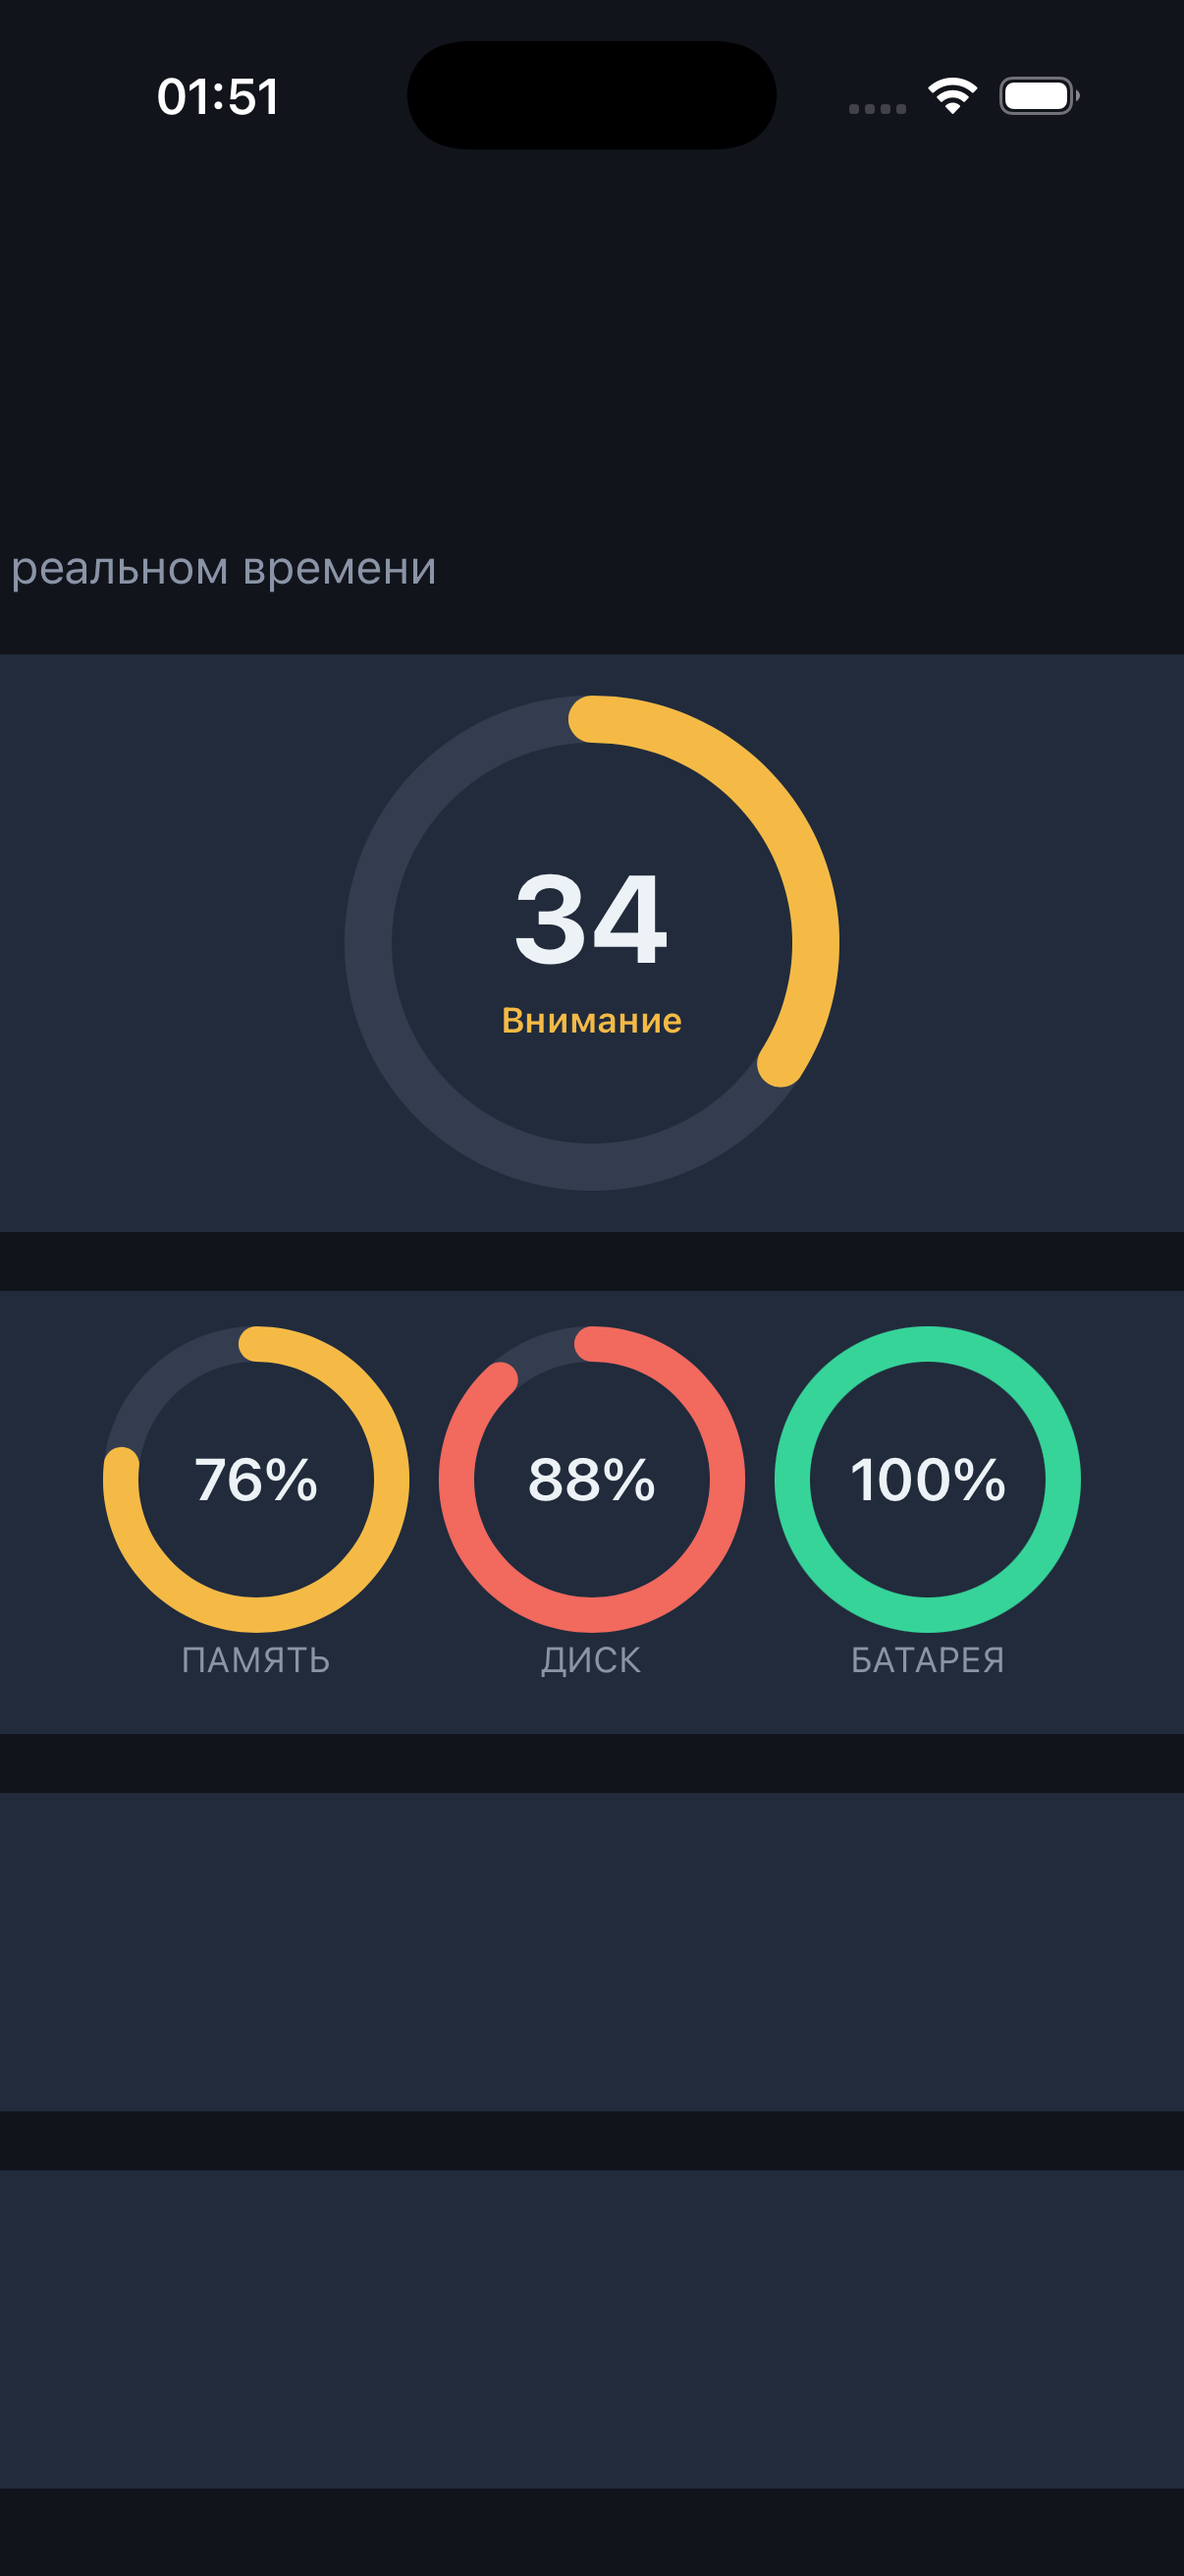
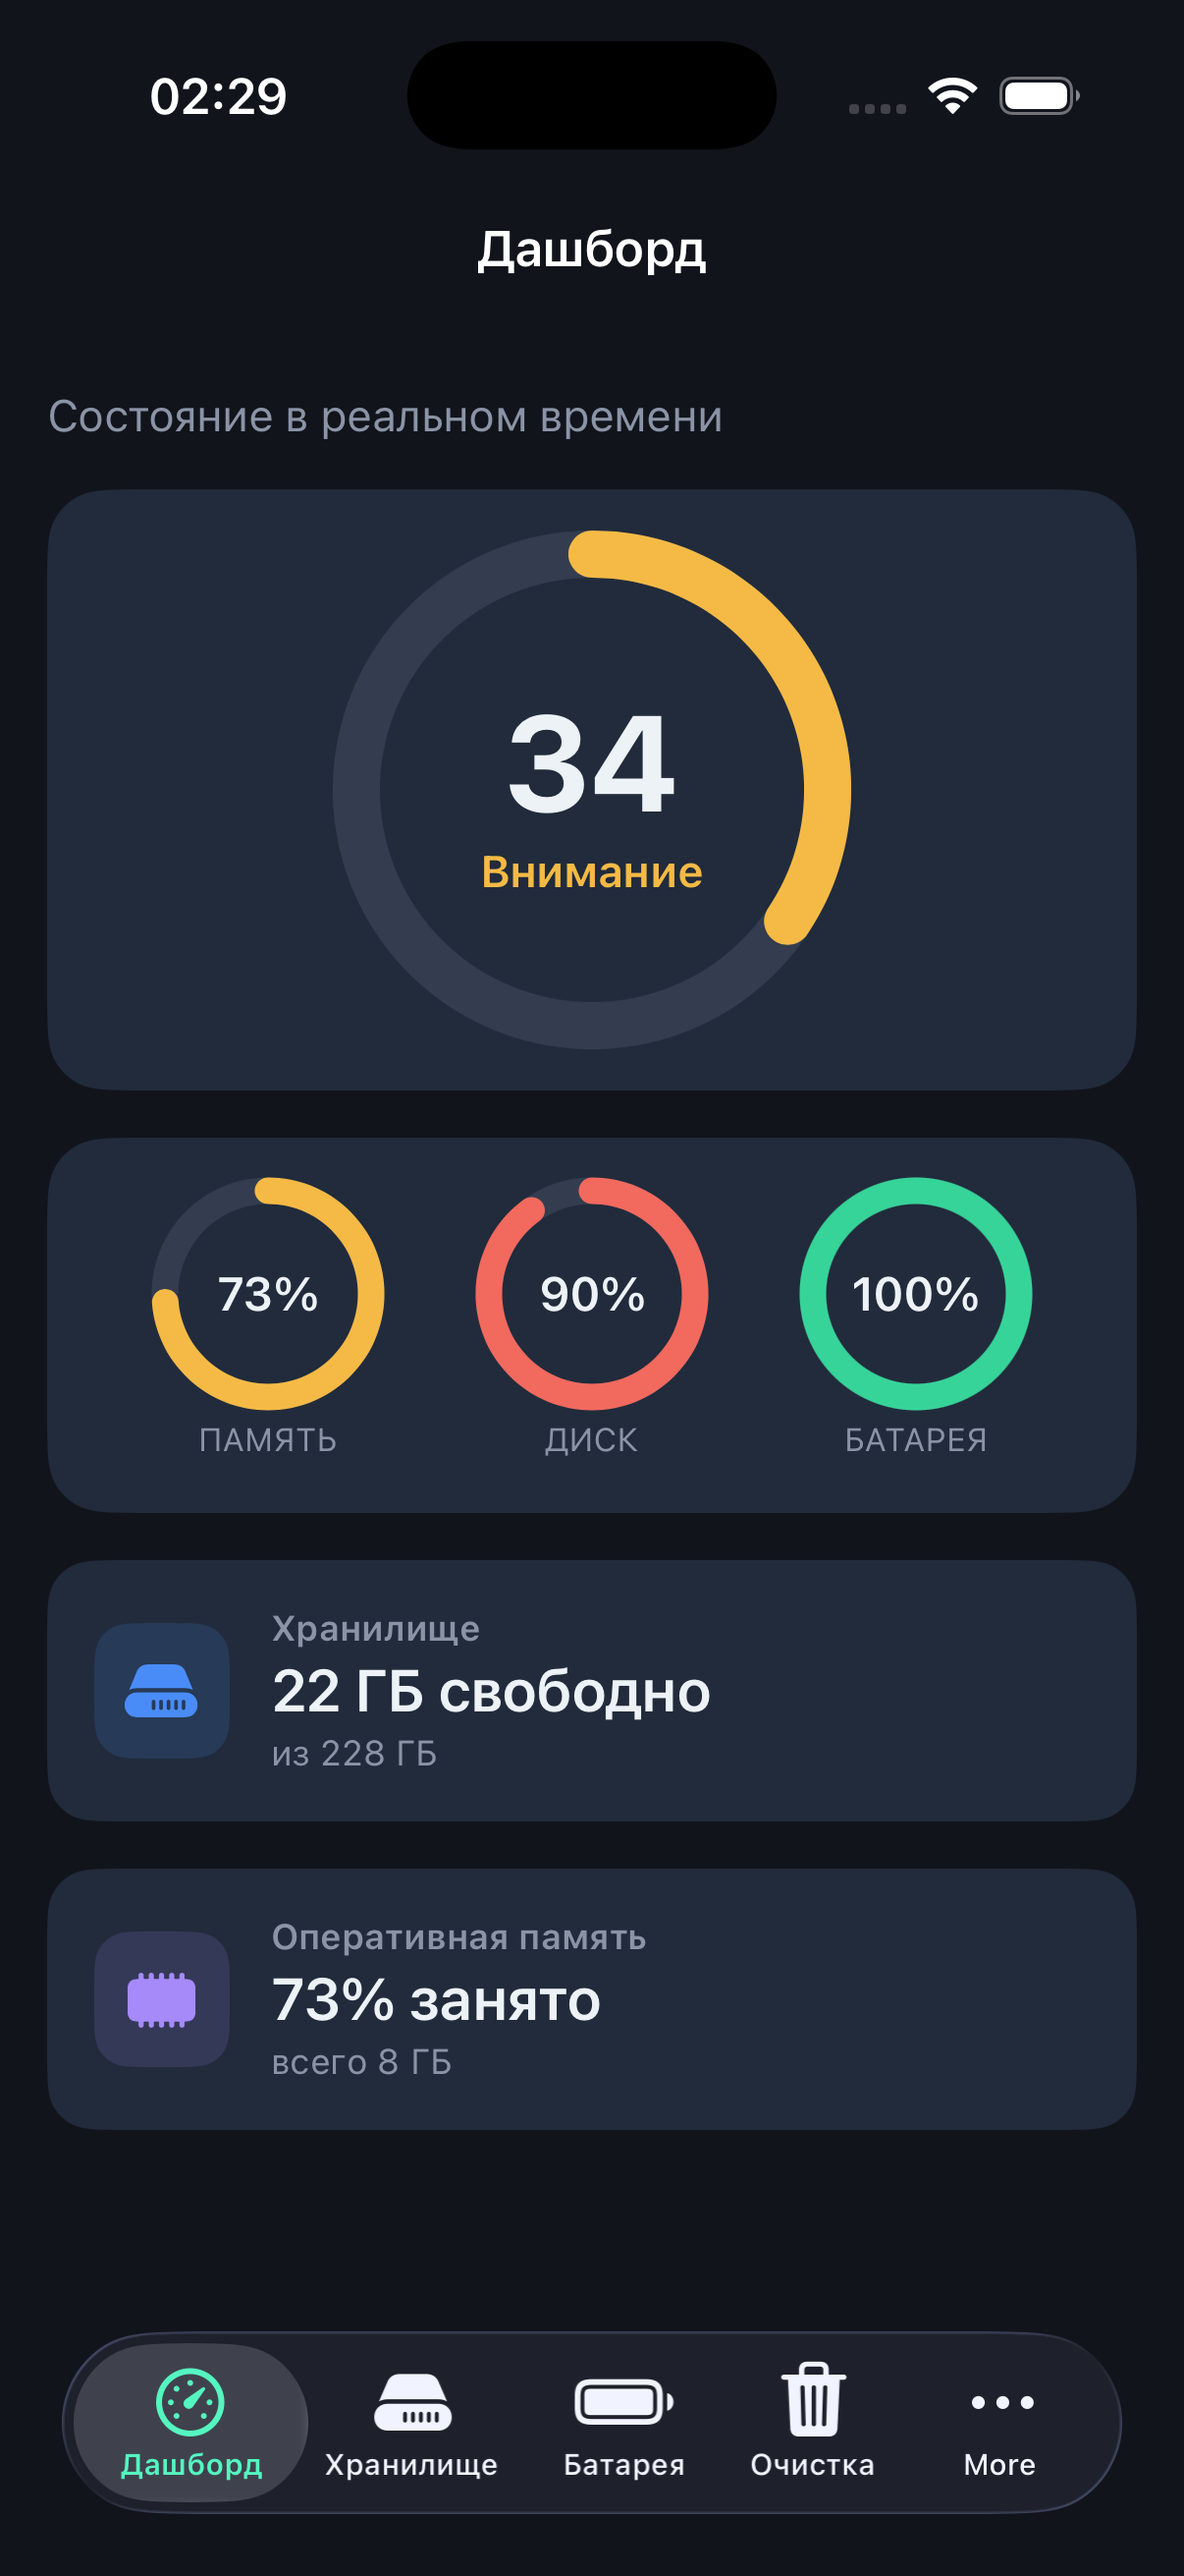
iOS: фикс горизонтальной обрезки (minWidth 820 только для macOS) + чистый дашборд

diff --git a/krylan-swift/Sources/DashboardView.swift b/krylan-swift/Sources/DashboardView.swift
@@ -8,13 +8,10 @@ struct DashboardView: View {
         ScrollView {
             VStack(spacing: 16) {
 
-                // Заголовок
+                // Подзаголовок (титул показывает нав-бар)
                 HStack {
-                    VStack(alignment: .leading, spacing: 2) {
-                        Text("Дашборд").font(.system(size: 28, weight: .bold)).foregroundStyle(Brand.text)
-                        Text("Состояние в реальном времени")
-                            .font(.subheadline).foregroundStyle(Brand.muted)
-                    }
+                    Text("Состояние в реальном времени")
+                        .font(.subheadline).foregroundStyle(Brand.muted)
                     Spacer(minLength: 0)
                 }
 

diff --git a/krylan-swift/Sources/KRYLANApp.swift b/krylan-swift/Sources/KRYLANApp.swift
@@ -6,8 +6,12 @@ import SwiftUI
 struct KRYLANApp: App {
     var body: some Scene {
         WindowGroup {
+            #if os(macOS)
             ContentView()
                 .frame(minWidth: 820, minHeight: 560)
+            #else
+            ContentView()
+            #endif
         }
         #if os(macOS)
         .windowStyle(.titleBar)
